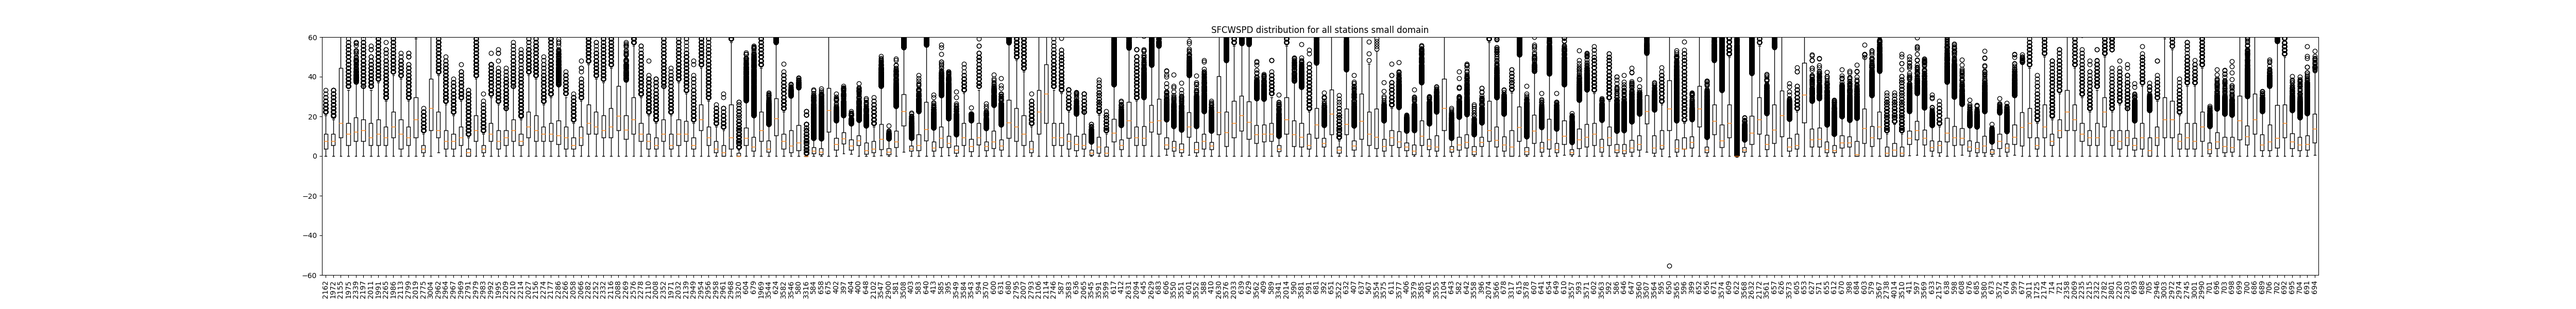
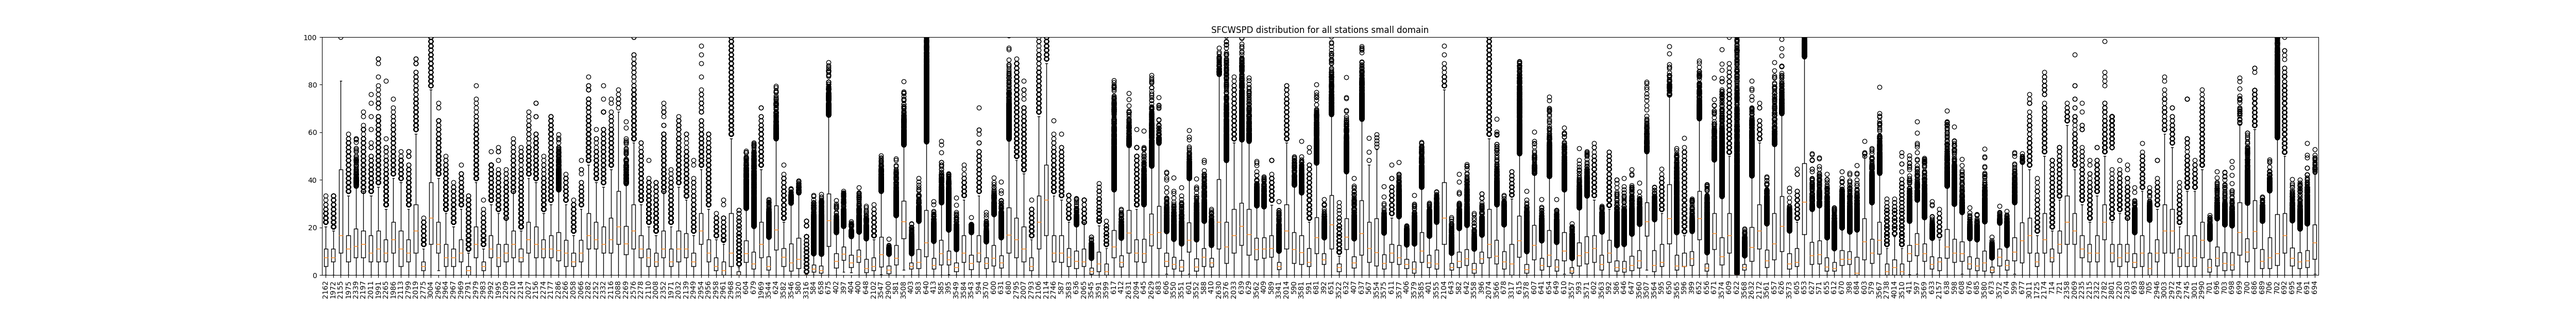
img

Changed region(s): [[0.1248, 0.12, 0.9048, 0.9]]

diff --git a/qc/data_distribution.py b/qc/data_distribution.py
@@ -103,7 +103,12 @@ def plot_station_data(obs_all, variable, station_list):
     plot = ax.boxplot(obs_all)
     ax.set(title = variable + " distribution for all stations " + domain + " domain")
     ax.set_xticklabels(station_list, rotation=90)
-    plt.ylim([-60,60])
+    if variable == 'SFCTC':
+        plt.ylim([-60,60])
+
+    else:
+        plt.ylim([0,100])
+
     plt.savefig('img/'+variable+'.png')
 
 def data_quantity(station_list, len_all):
